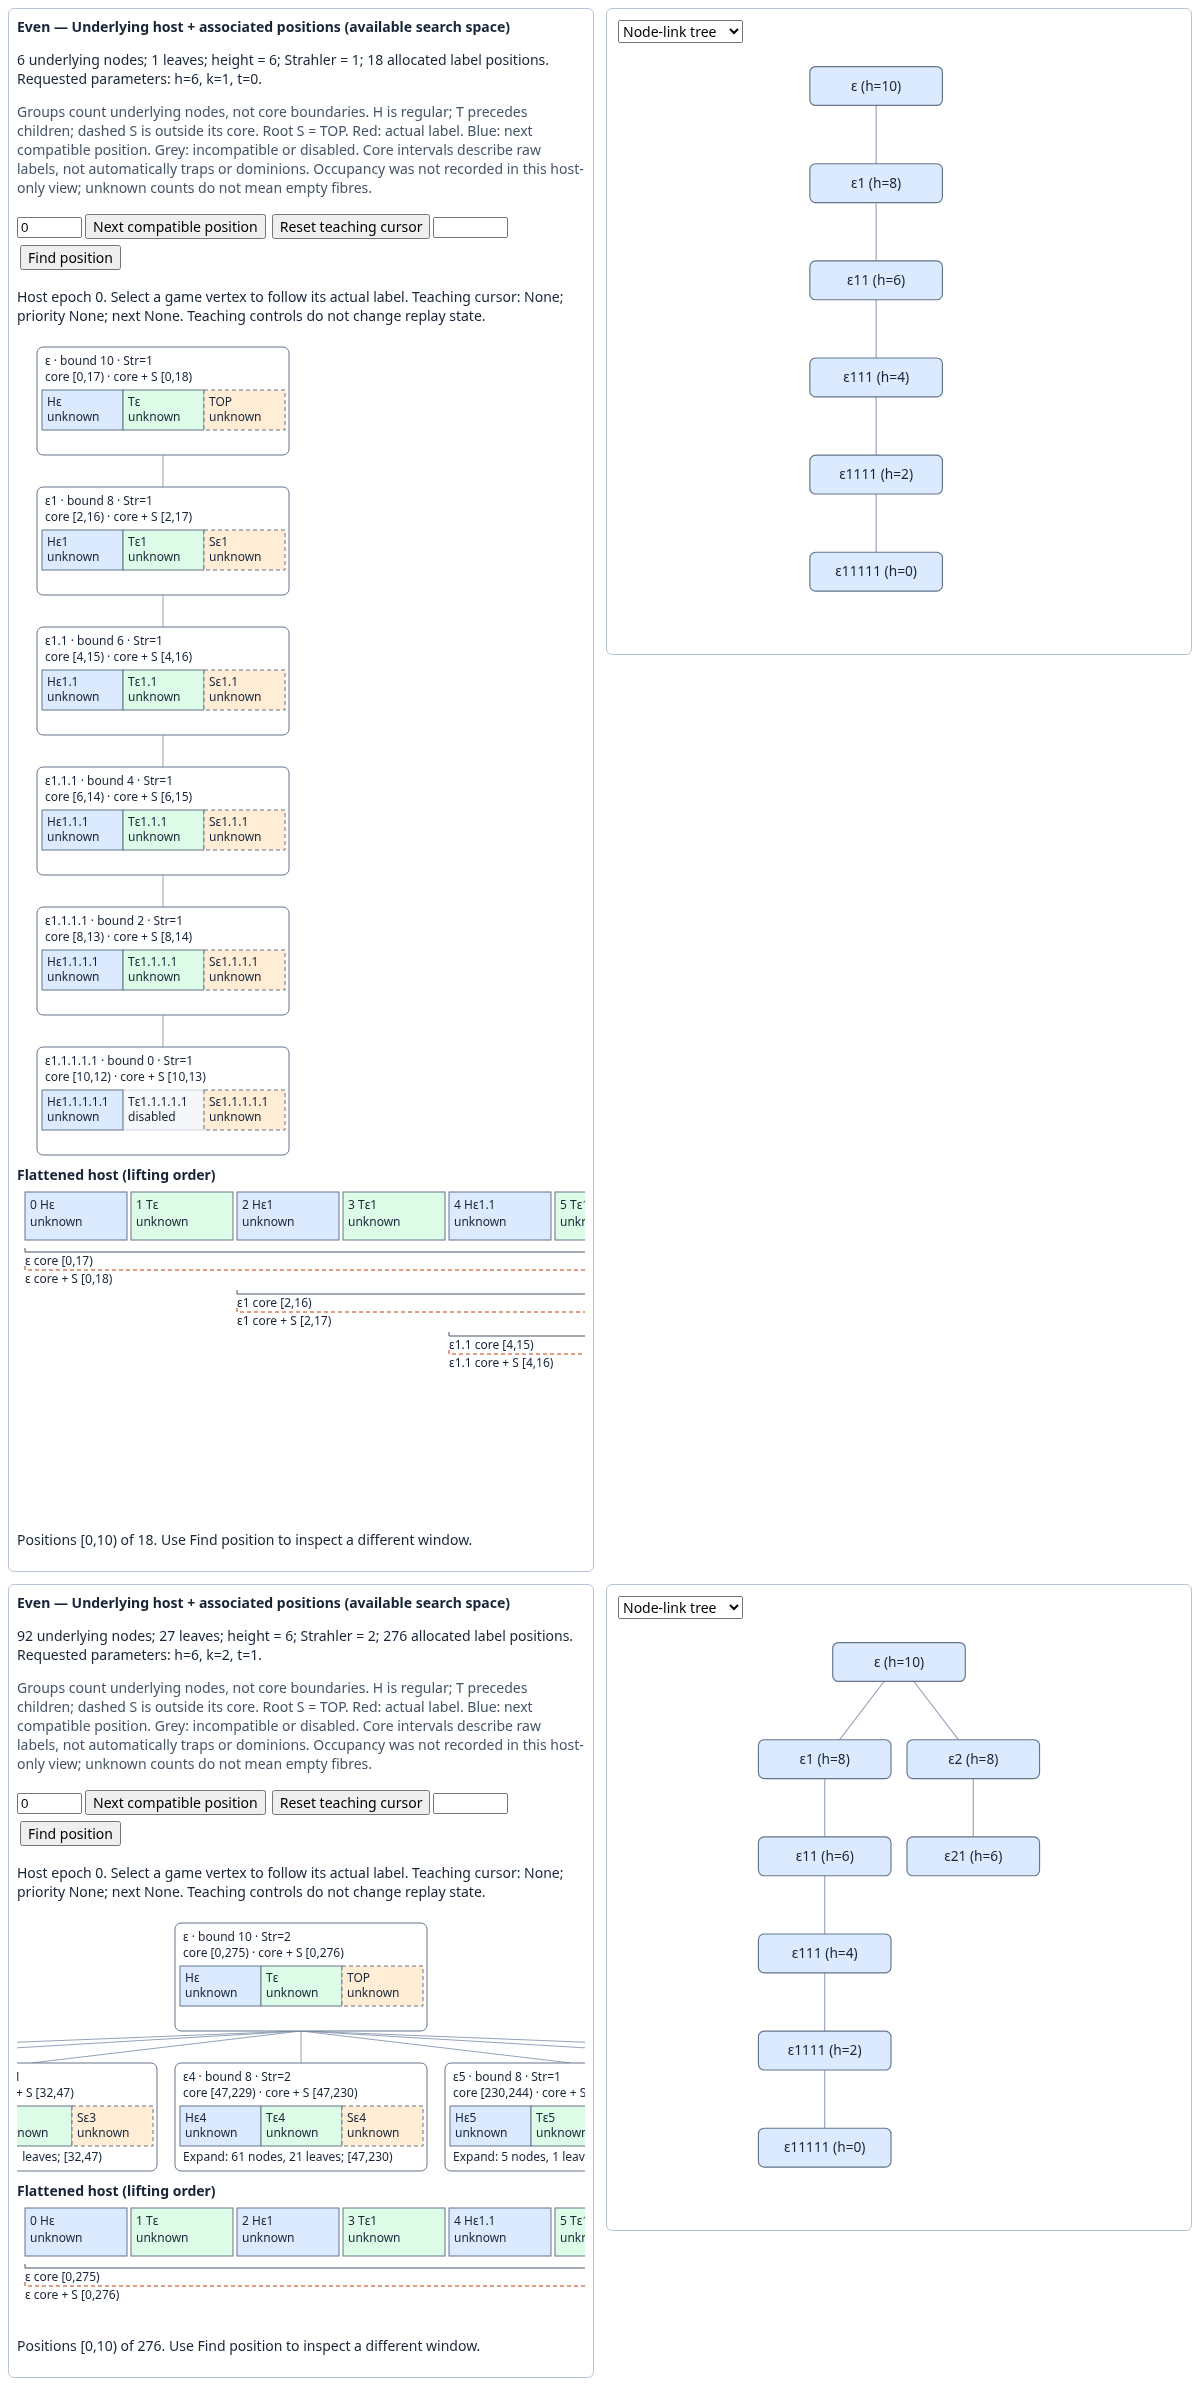
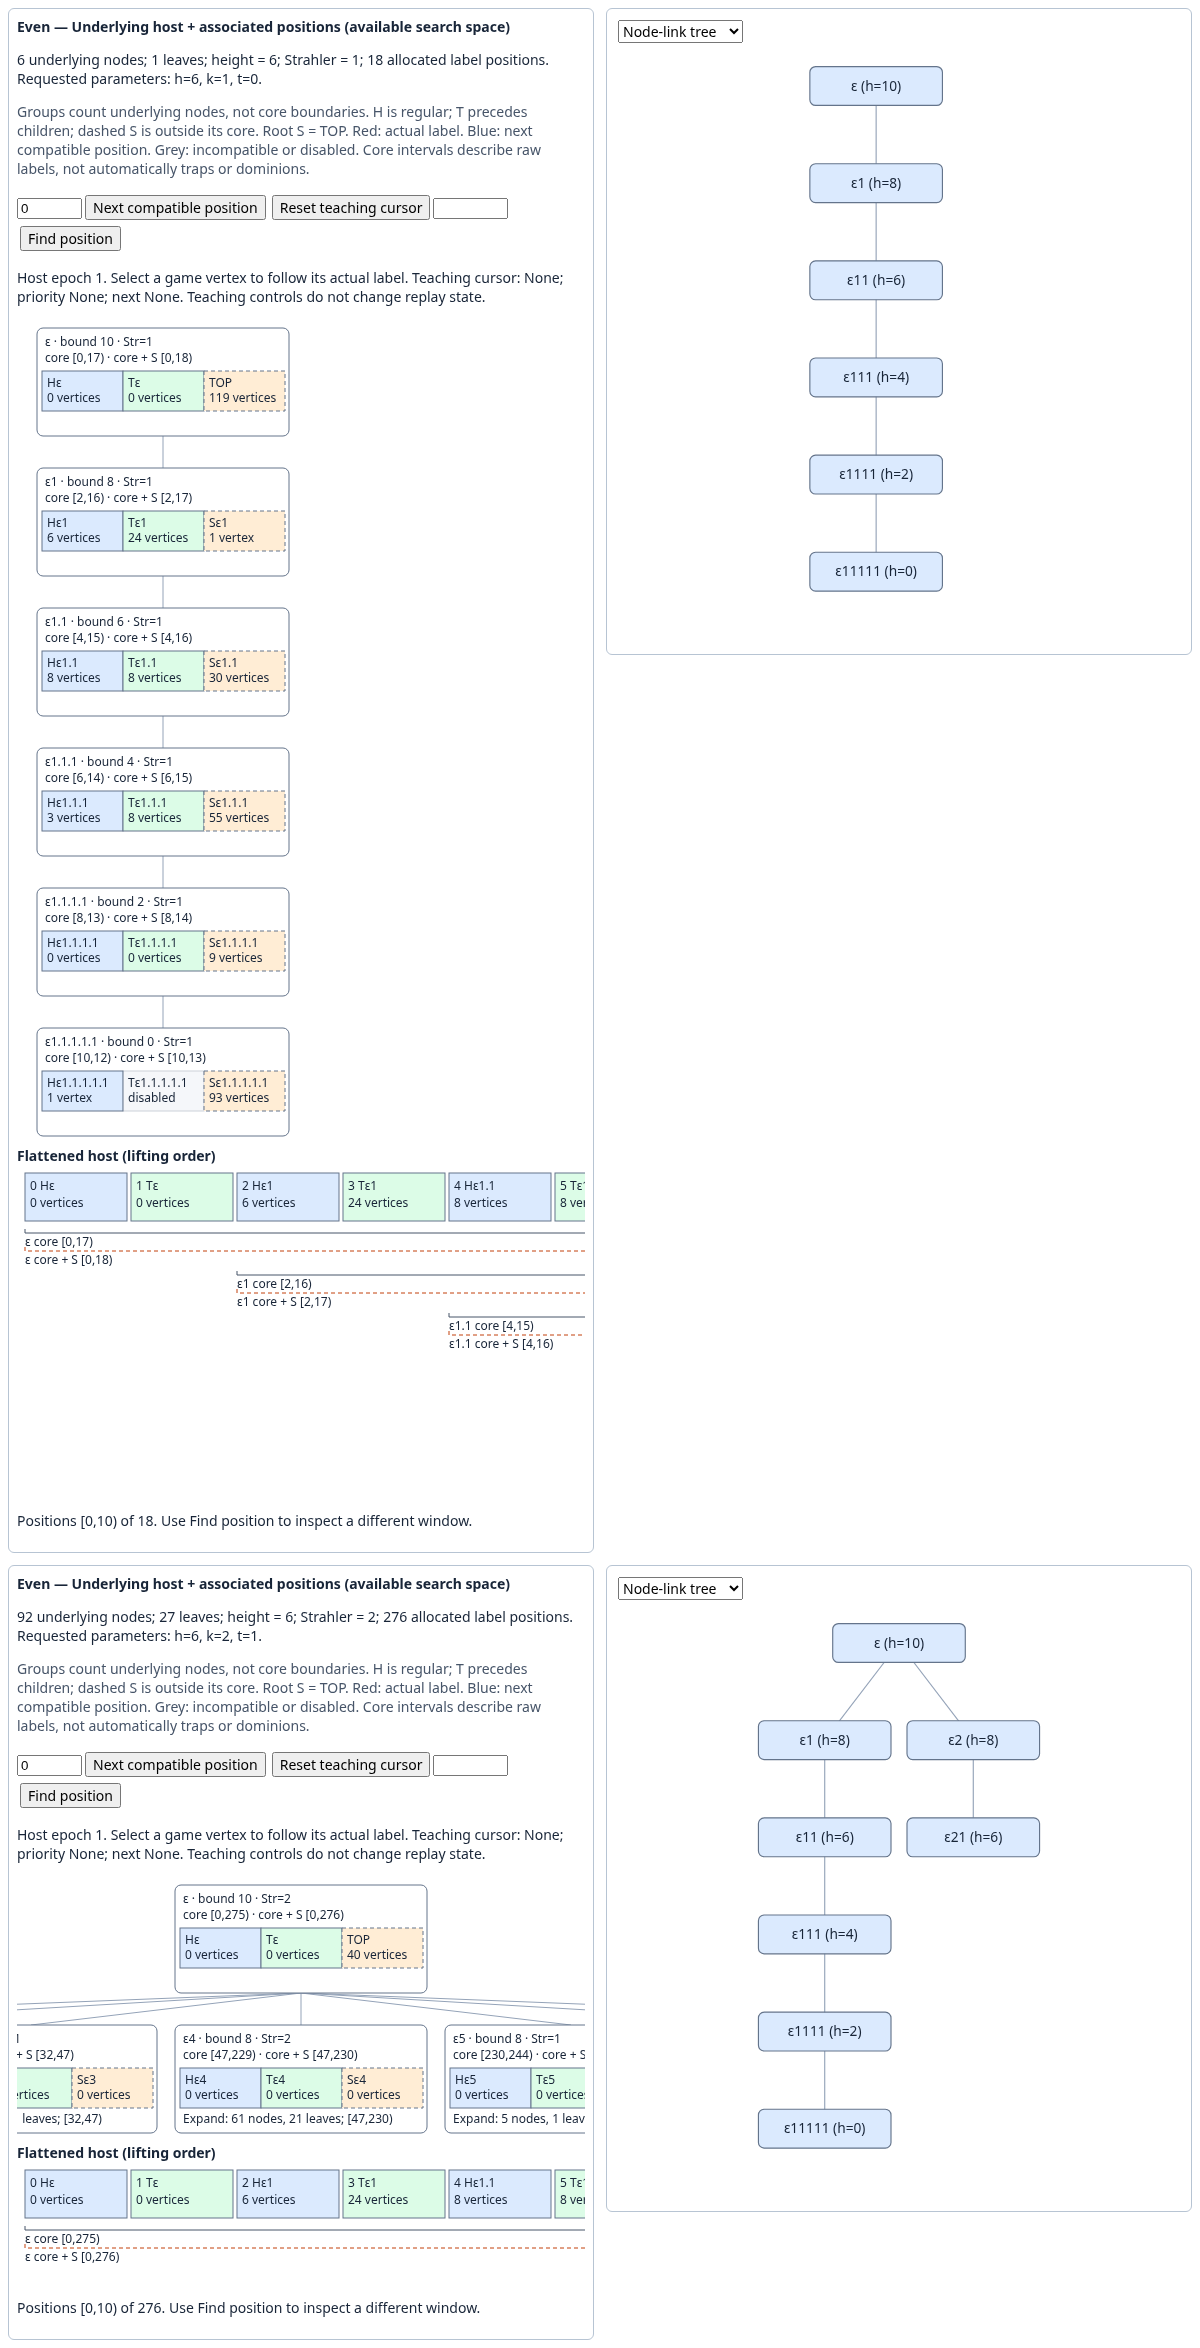
Show native final occupancy in the Nester-2 host views

diff --git a/python/strahler/__init__.py b/python/strahler/__init__.py
@@ -19,7 +19,7 @@ from ._replay import Replay
 from ._host import HostSnapshot
 
 __all__ = ['Game', 'Node', 'Result', 'Trace', 'State', 'HostSnapshot', 'CheckResult', 'Violation', 'Condition',
-           'StrahlerError', 'InputError', 'decompose', 'trace', 'check',
+           'StrahlerError', 'InputError', 'decompose', 'trace', 'trace_snapshot', 'check',
            'progress_measures', 'genstree', 'pms_tree', 'materialize_partial',
            'version']
 
@@ -340,6 +340,40 @@ def trace(game, algorithm=None, *, args=None, **options):
         error.events = events
         raise
     return Trace(game, events, Result(text))
+
+
+def trace_snapshot(game, algorithm=None, *, args=None, **options):
+    """Return (Result, final State), streaming events without a stored timeline.
+
+    Native tracing still runs, including its event budget. Only replay state,
+    raw labels and complete hosts are retained; use trace() for navigation.
+    Both players are required. Truncation raises StrahlerError and does not
+    claim a complete snapshot or retain an event prefix.
+    """
+    flags = _native.options(args, options, algorithm)
+    if any(flag in (b'--player=even', b'--player=odd') for flag in flags):
+        raise ValueError("trace_snapshot requires player='both'")
+    replay, errors, last = Replay(), [], None
+
+    @_native.Callback
+    def collect(context, line, length):
+        nonlocal last
+        try:
+            event = json.loads(_native.C.string_at(line, length))
+            replay.apply(event)
+            last = event
+            return 1
+        except BaseException as error:
+            errors.append(error)
+            return 0
+
+    try:
+        text = _native.call('decompose', game._pointer(), flags, len(flags), collect, None)
+    except StrahlerError:
+        if errors:
+            raise errors[0]
+        raise
+    return Result(text), State(replay, last, last['step'])
 
 
 def progress_measures(game, *, args=None, **options):

diff --git a/tests/test_notebooks.py b/tests/test_notebooks.py
@@ -136,16 +136,27 @@ def test_native_host_lessons_and_default_nester_comparison(monkeypatch):
     assert lifting.index('from host_lessons') < lifting.index('from otj22')
     nester = notebooks['08-lexicographic-adaptive-nester.ipynb']
     assert 'RUN_NESTER2_TRACE = False' in '\n'.join(''.join(c['source']) for c in nester['cells'])
-    # Default lesson never collects the large trace or edits recorded results.
+    rendered = next(c['outputs'] for c in nester['cells'] if c['id']=='host-nester2-compare')
+    assert 'unknown' not in json.dumps(rendered)
+    # Default lesson streams final occupancy without collecting the timeline.
     def reject(*args, **kwargs):
-        raise AssertionError('Default Nester-2 comparison must remain untraced')
+        raise AssertionError('Default Nester-2 comparison must not collect the timeline')
     monkeypatch.setattr(strahler, 'trace', reject)
-    game, results, hosts = host_lessons.nester2_comparison()
+    game, results, states = host_lessons.nester2_comparison()
     try:
         assert (len(game.vertices), len(game.edges)) == (365,479)
         assert results[1,0].unresolved and results[2,1].complete
-        assert hosts[1,0][0].metrics['strahler']==1
-        assert hosts[2,1][0].metrics['strahler']==2
+        assert states[1,0].hosts[0].metrics['strahler']==1
+        assert states[2,1].hosts[0].metrics['strahler']==2
+        from strahler.widgets import HostView
+        for state in states.values():
+            assert not hasattr(state, 'events')
+            for player in range(2):
+                assert set(state.raw_labels[player]) == set(game.vertices)
+                host = HostView(state.hosts[player], labels=state.raw_labels[player])
+                assert 'unknown' not in host._static_svg()
+                assert all(p['caption'] != 'unknown' for n in host.data['nodes'] for p in n['parts'])
+                host.close()
     finally:
         game.close()
 

diff --git a/tests/test_host.py b/tests/test_host.py
@@ -161,3 +161,35 @@ def test_lazy_symmetric_prefix_and_epoch_seek():
         assert len(later.nodes) == len(early.nodes) + 1
         assert later.epoch == early.epoch
         assert run.state(-1).trees == run.result.trees
+
+
+@pytest.mark.parametrize('algorithm,options', [
+    ('lifting', dict(kary=2)), ('lifting', dict(search='lexicographic', iter_shave=True)),
+    ('lifting-sym', dict(kary=2)), ('zielonka', {}), ('zielonka-sym', {})])
+def test_streamed_snapshot_matches_collected_final_state(algorithm, options, monkeypatch):
+    with strahler.Game.from_text(BRANCH) as game:
+        run = strahler.trace(game, algorithm, **options)
+        expected = run.state(-1)
+        def reject(*args, **kwargs):
+            raise AssertionError('Streaming snapshots must not create a collected Trace')
+        monkeypatch.setattr(strahler.Trace, '__init__', reject)
+        result, state = strahler.trace_snapshot(game, algorithm, **options)
+        assert result.to_json() == run.result.to_json()
+        assert state.index == len(run) - 1
+        assert state.trees == expected.trees and state.shaves == expected.shaves
+        assert state.hosts == expected.hosts and state.raw_labels == expected.raw_labels
+        assert not hasattr(state, 'events')
+
+
+def test_streamed_snapshot_preserves_limits_and_callback_errors(monkeypatch):
+    from strahler._replay import Replay
+    with strahler.Game.from_text(BRANCH) as game:
+        with pytest.raises(strahler.StrahlerError):
+            strahler.trace_snapshot(game, 'lifting', kary=2, trace_limit=1)
+        with pytest.raises(ValueError, match='both'):
+            strahler.trace_snapshot(game, player='even')
+        def reject(*args, **kwargs):
+            raise RuntimeError('replay failed')
+        monkeypatch.setattr(Replay, 'apply', reject)
+        with pytest.raises(RuntimeError, match='replay failed'):
+            strahler.trace_snapshot(game, 'lifting', kary=2)

diff --git a/jupyter-examples/host_lessons.py b/jupyter-examples/host_lessons.py
@@ -4,7 +4,7 @@ import bz2
 from pathlib import Path
 
 import strahler
-from strahler.widgets import HostView, Stepper
+from strahler.widgets import Stepper
 
 CHAIN = '''parity 3;
 0 2 0 0 "h";
@@ -16,21 +16,18 @@ BRANCH = CHAIN.replace('parity 3;', 'parity 4;') + '4 0 1 4,3 "b";\n'
 
 
 def nester2_comparison():
-    """Current untraced results; no benchmark timing or stored frontier edits."""
+    """Stream final host occupancy, discarding the large native event timeline."""
     path = Path(__file__).resolve().parent / 'nester/Nestern=2.gm.bz2'
     game = strahler.Game.from_text(bz2.open(path, 'rt').read())
-    results, hosts = {}, {}
+    results, states = {}, {}
     for k, t in ((1, 0), (2, 1)):
-        result = strahler.decompose(game, 'lifting', tree_k=k, tree_t=t)
+        result, state = strahler.trace_snapshot(
+            game, 'lifting', tree_k=k, tree_t=t, trace_limit=150000)
         results[k, t] = result
-        pair = []
-        for player, p in enumerate(result.data['parameters']):
-            host = strahler.HostSnapshot.from_tree(strahler.genstree(p['K'], p['H'], p['t']),
-                         player=player, root_bound=2 * (p['H'] - 1) + player)
-            pair.append(host)
+        states[k, t] = state
+        for player in range(2):
             assert strahler.check(game, result.trees[player], player, result.regions[player]).ok
-        hosts[k, t] = tuple(pair)
-    return game, results, hosts
+    return game, results, states
 
 
 def interesting_lifts(run):

diff --git a/python/README.md b/python/README.md
@@ -153,6 +153,16 @@ exceeding it raises `StrahlerError`, with the observed prefix (ending in
 `truncated`) attached as `error.events`. It never reports a truncated run as
 complete.
 
+`result, state = trace_snapshot(game, 'lifting', tree_k=2, tree_t=1,
+trace_limit=150000)` streams the same native trace into its final replay state
+without retaining the event timeline or checkpoints. It returns exact
+`state.hosts` and `state.raw_labels`, including empty host branches and TOP
+occupancy. Native tracing and its event budget still apply; truncation raises
+`StrahlerError` without returning a completed snapshot or retaining a prefix.
+Use `trace()` when forward/backward navigation is needed. Notebook 08 uses
+these final snapshots to show Nester-2 occupancy without loading its full
+100k-event timeline by default.
+
 ## Check a candidate
 
 `check(game, tree, player, subgame=None, compress=False)` accepts a `Node`,

diff --git a/jupyter-examples/README.md b/jupyter-examples/README.md
@@ -190,7 +190,10 @@ separate meaning.
 
 Notebook 08's default Nester-2 lesson runs fixed ordinary AD at `(1,0)` and
 `(2,1)` without preprocessing or same-parity compression and shows current-run
-host/candidate comparisons. Its full native trace (bounded by `trace_limit`)
+host/candidate comparisons with actual final fibre occupancy. It streams native
+events into final host/label snapshots and discards the timeline. Empty fibres
+show zero occupants; TOP stays outside that player's certificate. Its full
+native timeline (bounded by `trace_limit`)
 is opt-in via `RUN_NESTER2_TRACE`; suggested sibling-crossing and predecessor
 invalidation events are located programmatically. Bundled fixtures, helper
 code, inline JavaScript and static SVG/HTML keep all these examples offline.
